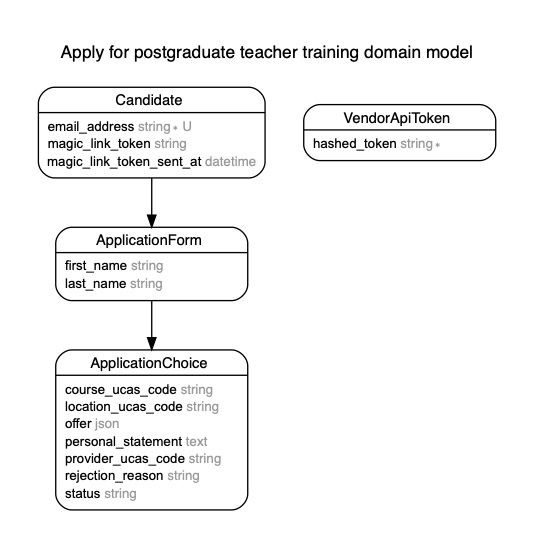
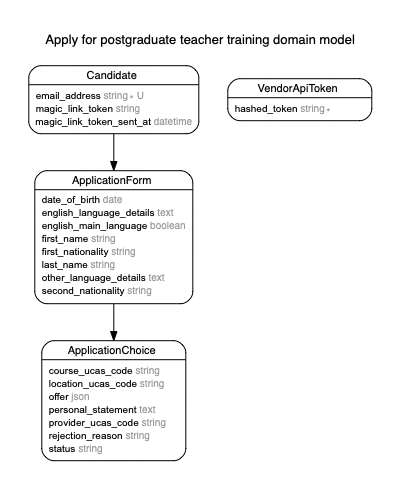
Add personal details fields to application form

Changed region(s): [[0.0599, 0.0612, 0.8978, 0.949], [0.5686, 0.1531, 0.9576, 0.3061]]

diff --git a/app/models/candidate_interface/personal_details_form.rb b/app/models/candidate_interface/personal_details_form.rb
@@ -24,18 +24,19 @@ module CandidateInterface
     validates :english_language_details, :other_language_details,
               word_count: { maximum: 200 }
 
-    def self.load(form)
+    def self.load(application_form)
       new(
-        first_name: form.first_name,
-        last_name: form.last_name,
-        first_nationality: form.first_nationality,
-        second_nationality: form.second_nationality,
-        english_main_language: form.english_main_language,
-        english_language_details: form.english_language_details,
-        other_language_details: form.other_language_details,
-        day: form.date_of_birth&.day,
-        month: form.date_of_birth&.month,
-        year: form.date_of_birth&.year,
+        application_form: application_form,
+        first_name: application_form.first_name,
+        last_name: application_form.last_name,
+        first_nationality: application_form.first_nationality,
+        second_nationality: application_form.second_nationality,
+        english_main_language: application_form.english_main_language ? 'yes' : 'no',
+        english_language_details: application_form.english_language_details,
+        other_language_details: application_form.other_language_details,
+        day: application_form.date_of_birth&.day,
+        month: application_form.date_of_birth&.month,
+        year: application_form.date_of_birth&.year,
       )
     end
 
@@ -47,7 +48,7 @@ module CandidateInterface
         last_name: last_name,
         first_nationality: first_nationality,
         second_nationality: second_nationality,
-        english_main_language: english_main_language,
+        english_main_language: english_main_language == 'yes',
         english_language_details: english_language_details,
         other_language_details: other_language_details,
         date_of_birth: date_of_birth,

diff --git a/spec/models/candidate_interface/personal_details_form_spec.rb b/spec/models/candidate_interface/personal_details_form_spec.rb
@@ -8,7 +8,7 @@ RSpec.describe CandidateInterface::PersonalDetailsForm, type: :model do
       date_of_birth: Faker::Date.birthday,
       first_nationality: NATIONALITIES.sample,
       second_nationality: NATIONALITIES.sample,
-      english_main_language: %w[yes no].sample,
+      english_main_language: [true, false].sample,
       english_language_details: Faker::Lorem.paragraph_by_chars(number: 200),
       other_language_details: Faker::Lorem.paragraph_by_chars(number: 200),
     }
@@ -23,7 +23,7 @@ RSpec.describe CandidateInterface::PersonalDetailsForm, type: :model do
       year: data[:date_of_birth].year,
       first_nationality: data[:first_nationality],
       second_nationality: data[:second_nationality],
-      english_main_language: data[:english_main_language],
+      english_main_language: data[:english_main_language] ? 'yes' : 'no',
       english_language_details: data[:english_language_details],
       other_language_details: data[:other_language_details],
     }

diff --git a/db/schema.rb b/db/schema.rb
@@ -10,7 +10,7 @@
 #
 # It's strongly recommended that you check this file into your version control system.
 
-ActiveRecord::Schema.define(version: 2019_10_10_160606) do
+ActiveRecord::Schema.define(version: 2019_10_14_155007) do
 
   # These are extensions that must be enabled in order to support this database
   enable_extension "pgcrypto"
@@ -36,6 +36,12 @@ ActiveRecord::Schema.define(version: 2019_10_10_160606) do
     t.string "last_name"
     t.datetime "created_at", precision: 6, null: false
     t.datetime "updated_at", precision: 6, null: false
+    t.string "first_nationality"
+    t.string "second_nationality"
+    t.boolean "english_main_language"
+    t.text "english_language_details"
+    t.text "other_language_details"
+    t.date "date_of_birth"
     t.index ["candidate_id"], name: "index_application_forms_on_candidate_id"
   end
 

diff --git a/db/migrate/20191014155007_add_personal_details_fields_to_application_forms.rb b/db/migrate/20191014155007_add_personal_details_fields_to_application_forms.rb
@@ -1,0 +1,10 @@
+class AddPersonalDetailsFieldsToApplicationForms < ActiveRecord::Migration[6.0]
+  def change
+    add_column :application_forms, :first_nationality, :string
+    add_column :application_forms, :second_nationality, :string
+    add_column :application_forms, :english_main_language, :boolean
+    add_column :application_forms, :english_language_details, :text
+    add_column :application_forms, :other_language_details, :text
+    add_column :application_forms, :date_of_birth, :date
+  end
+end
